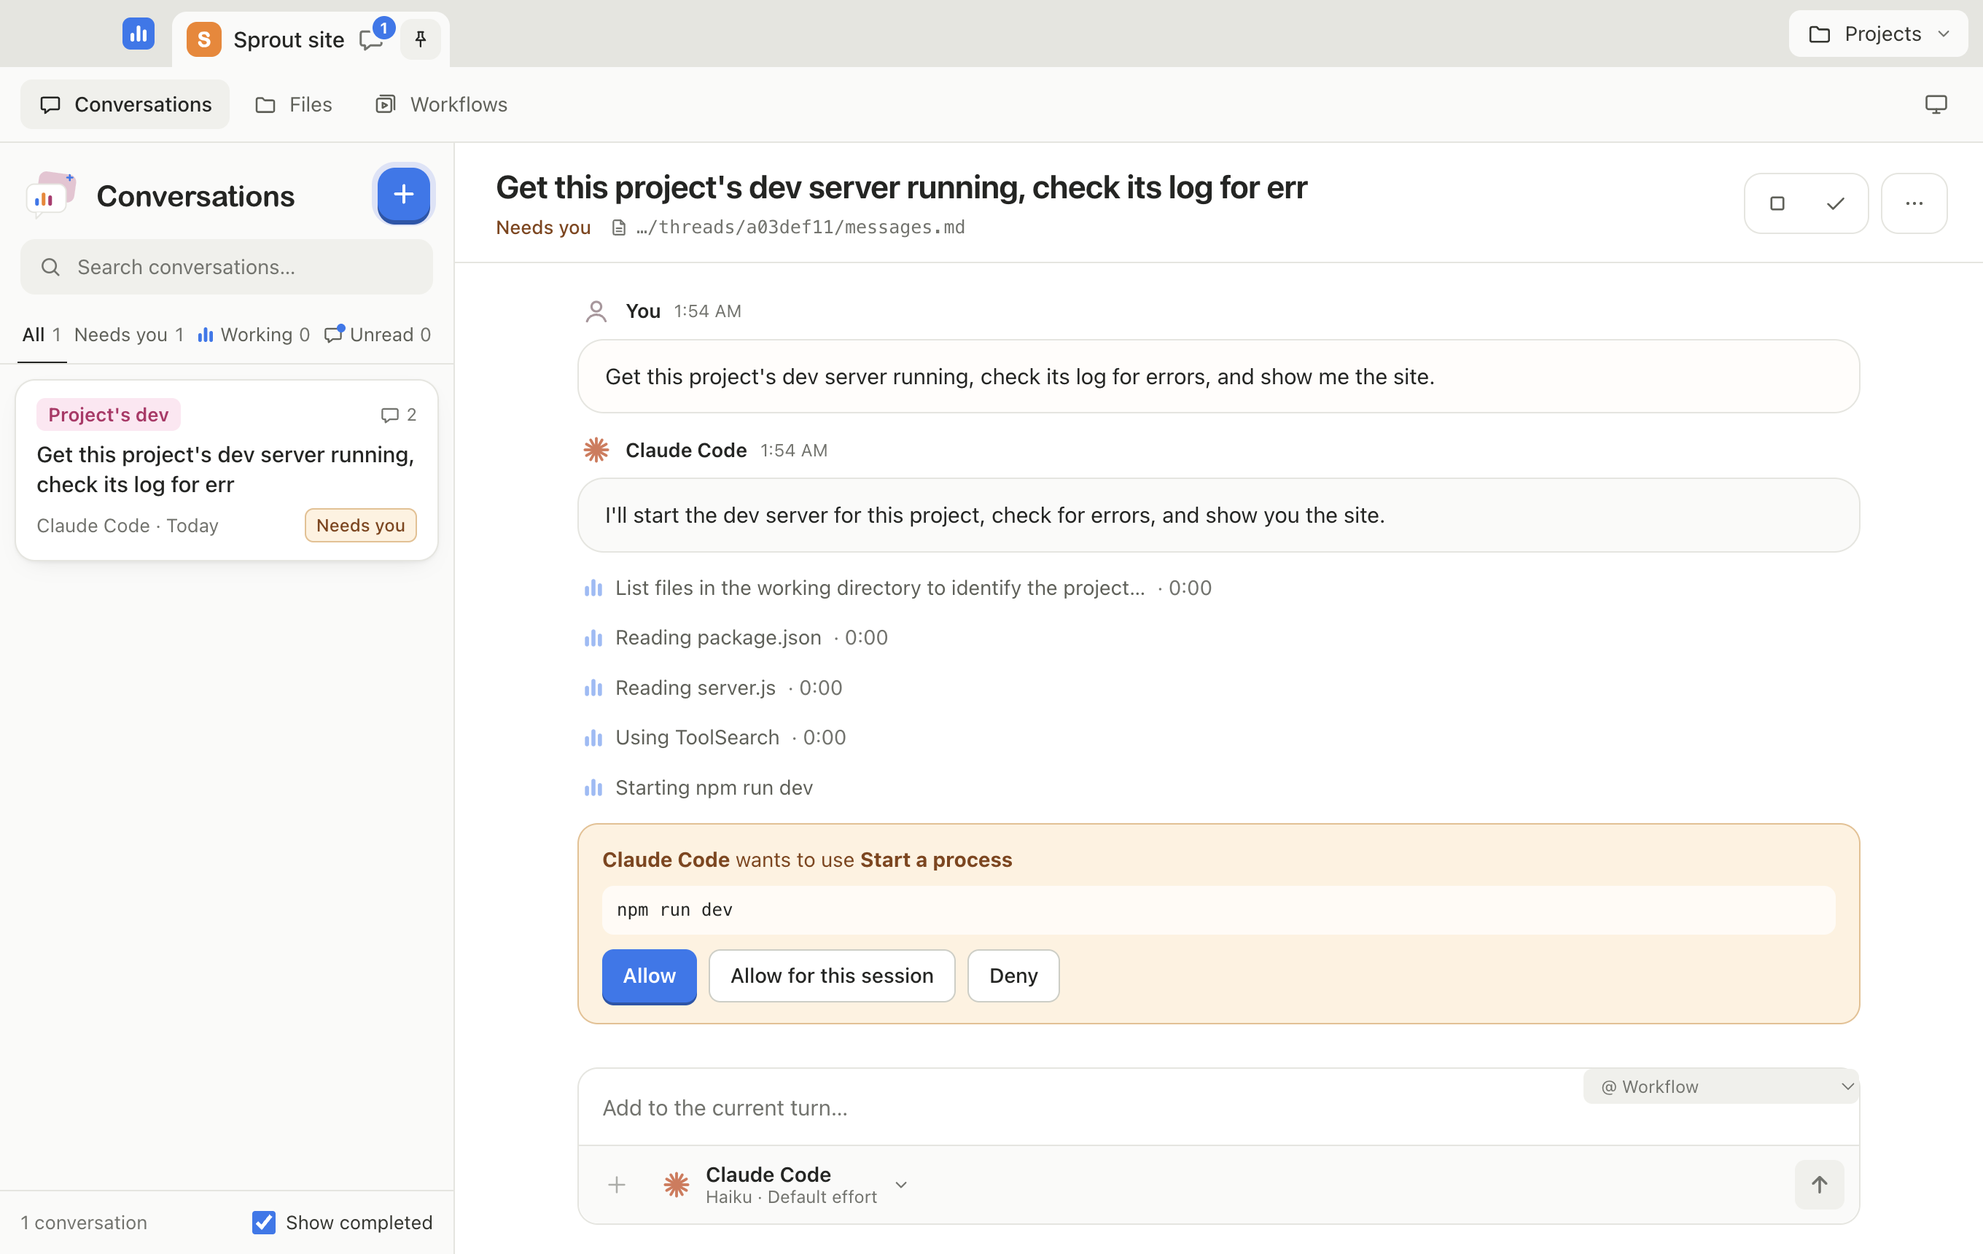
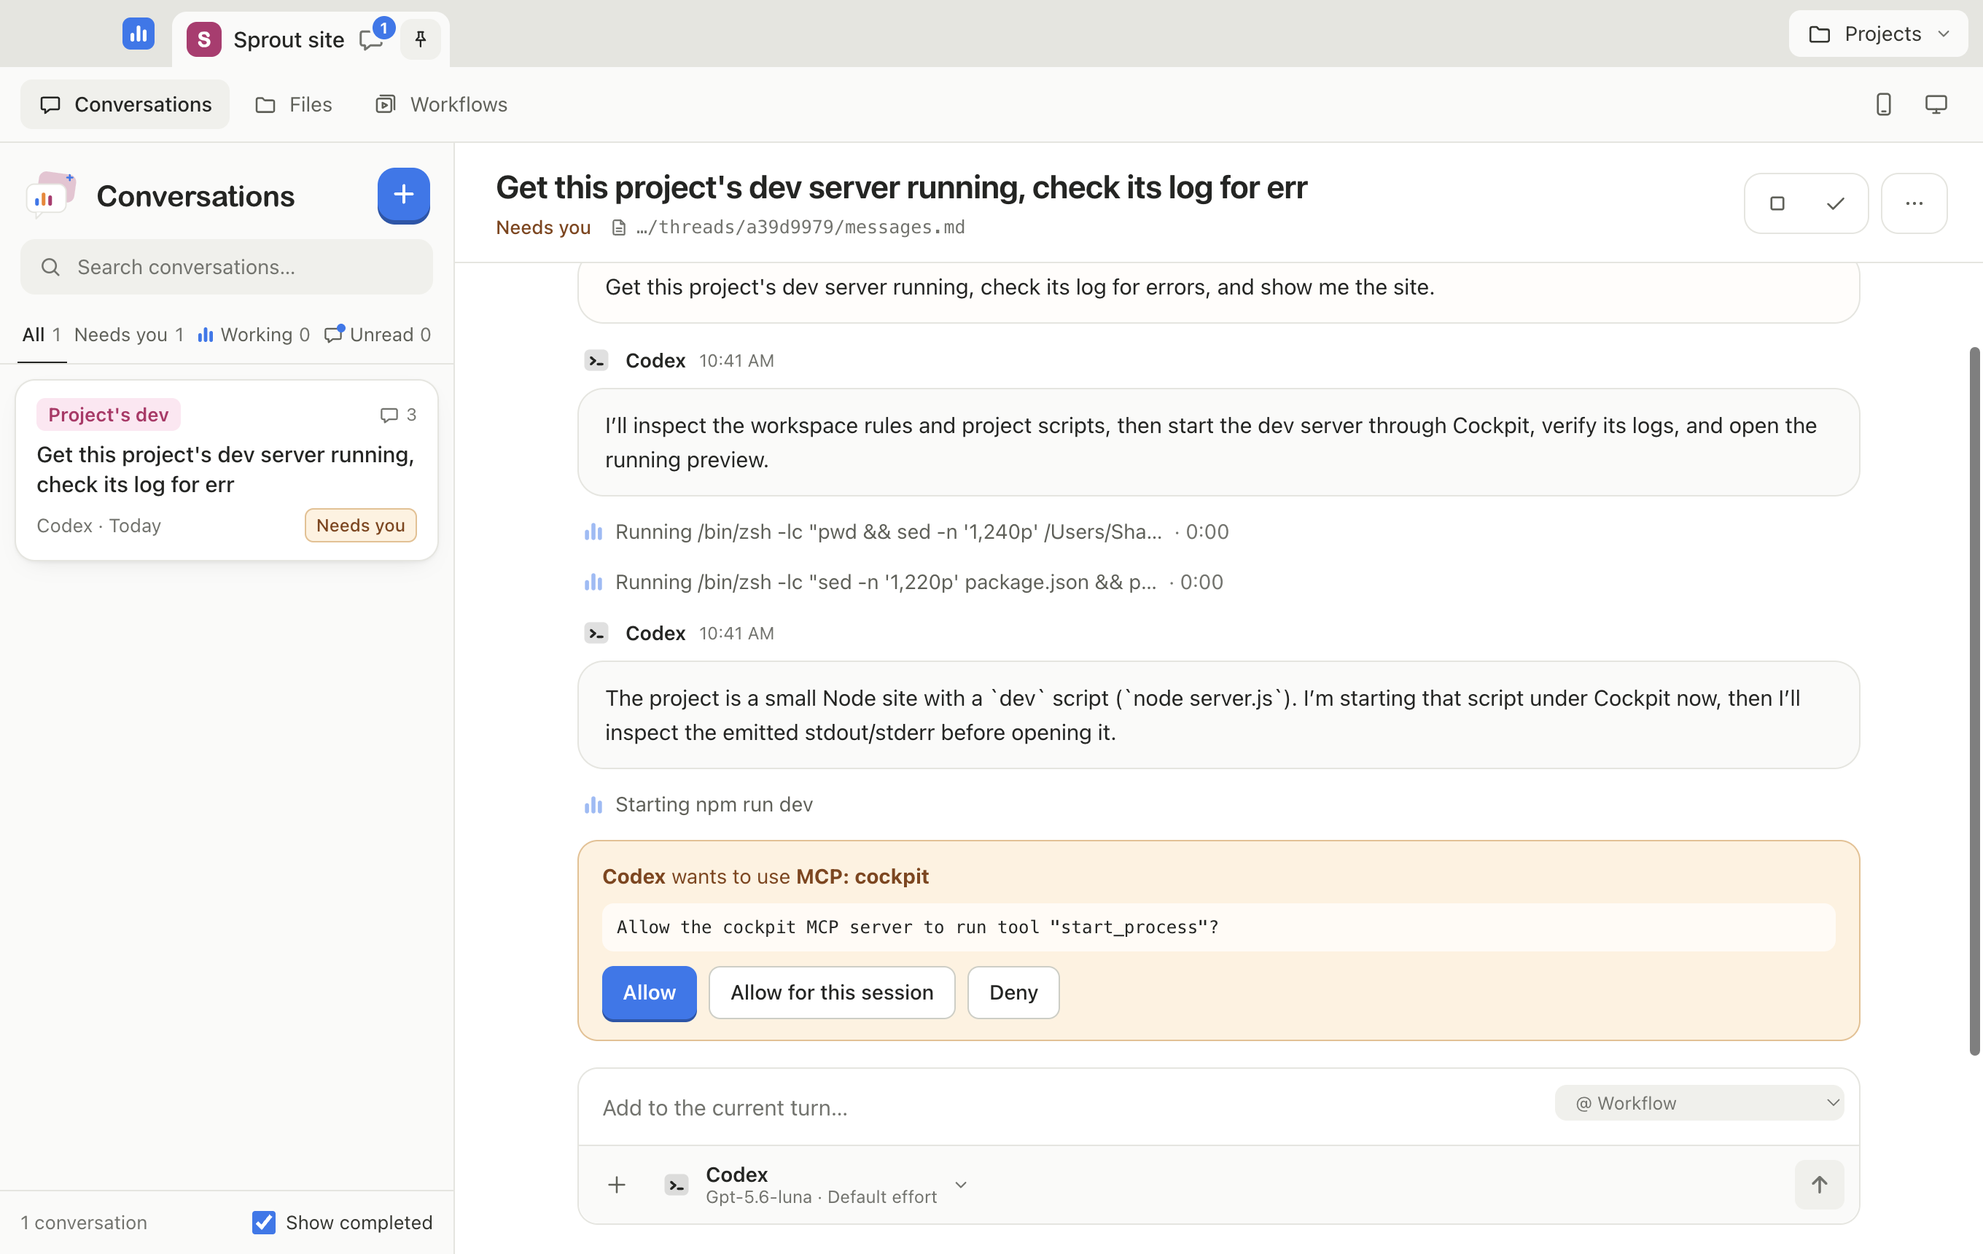
docs: MVP inspection, Codex option for proofs, refreshed screenshots
- proof:files and proof:mcp accept --codex; the process proof recognises
  Codex's MCP approval wording.
- Inspection of phases 1-5 on the packaged app: what works, what is not
  yet covered, and the primary release flow.
- Phone setup covers the macOS network extension and Tailscale's MagicDNS
  and HTTPS certificates.
- Phase 4 and 5 screenshots refreshed with synthetic projects.

diff --git a/scripts/proof-4.ts b/scripts/proof-4.ts
@@ -1,5 +1,5 @@
 // Phase 4 gate, run against the PACKAGED app (npm run package first): `npm run proof:mcp`.
-// A real Haiku thread in a small web project is asked, in plain words that name no tools, to get
+// A real agent thread (Haiku by default, --codex selects Codex) in a small web project is asked, in plain words that name no tools, to get
 // the dev server running and show the site. It has to start the server through the cockpit MCP,
 // read its log, and open the preview itself. The preview is captured (not opened) by swapping
 // shell.openExternal in the main process. Then: the header chip, Stop from the UI, a restart,
@@ -11,6 +11,9 @@ import type { Page } from 'playwright-core'
 import { checker, launchPackagedApp, PROOF_DIR } from './lib/launch-app.ts'
 import { DEV_PROMPT, makeDevProject } from './lib/dev-fixture.ts'
 import { chooseAgent, headStatus, messageBox, openProject, startConversation } from './lib/ui.ts'
+
+const agent = process.argv.includes('--codex') ? 'codex' : 'claude'
+const model = agent === 'codex' ? (process.env.COCKPIT_CODEX_MODEL ?? 'gpt-5.6-luna') : 'haiku'
 
 mkdirSync(PROOF_DIR, { recursive: true })
 const { check, finish } = checker()
@@ -49,7 +52,7 @@ async function approveUntilDone(page: Page, threadId: string, screenshot?: strin
     if (await card.isVisible()) {
       const tool = ((await card.locator('.approval-title strong').nth(1).textContent()) ?? '').trim()
       const detail = ((await card.locator('.approval-detail').textContent()) ?? '').trim()
-      asked.push(tool === 'Start a process' ? tool : `${tool}: ${detail.slice(0, 60)}`)
+      asked.push(tool === 'Start a process' ? tool : `${tool}: ${detail}`)
       if (screenshot && asked.length === 1) await page.screenshot({ path: join(PROOF_DIR, screenshot) })
       await card.getByRole('button', { name: 'Allow', exact: true }).click()
       return undefined
@@ -91,7 +94,7 @@ await app.evaluate(({ shell }) => {
 const openedUrls = (): Promise<string[]> => app.evaluate(() => (globalThis as { __opened?: string[] }).__opened ?? [])
 
 await openProject(page, project, 'Sprout site')
-await chooseAgent(page, { model: 'haiku' })
+await chooseAgent(page, { agent, model })
 await startConversation(page, DEV_PROMPT)
 const threadId = await waitUntil(page, 'the thread', async () =>
   (await getJson<Array<{ meta: { id: string; projectPath: string } }>>(page, '/api/threads')).find((t) => t.meta.projectPath === project)?.meta.id,
@@ -101,9 +104,9 @@ const asked = await approveUntilDone(page, threadId, 'phase-4-approval.png')
 check('turn finished', (await headStatus(page).textContent()) === 'Done', (await headStatus(page).textContent()) ?? '')
 // The agent may also use Bash, which asks in manual mode like any command. What matters here: starting a
 // process asks, and the read-only cockpit tools (list, read log, preview) never do.
-const READ_ONLY = ['List processes', 'Read process output', 'Open a preview']
-check('starting a process asked for approval', asked.includes('Start a process'), asked.join(' | '))
-check('read-only cockpit tools never asked', !asked.some((t) => READ_ONLY.some((r) => t.startsWith(r))))
+const READ_ONLY = ['List processes', 'Read process output', 'Open a preview', 'list_processes', 'read_process_output', 'open_preview']
+check('starting a process asked for approval', asked.some((tool) => tool === 'Start a process' || (tool.startsWith('MCP: cockpit:') && /\bstart_process\b/.test(tool))), asked.join(' | '))
+check('read-only cockpit tools never asked', !asked.some((t) => READ_ONLY.some((r) => t.includes(r))))
 
 const { events } = await getJson<{ events: StoredEvent[] }>(page, `/api/threads/${threadId}/events`)
 const tools = events.flatMap(({ event }) => (event.kind === 'tool_use' && event.name ? [event.name] : []))

diff --git a/scripts/proof-files.ts b/scripts/proof-files.ts
@@ -1,4 +1,4 @@
-// Packaged-app file browser proof with synthetic files, plus one real Haiku turn that
+// Packaged-app file browser proof with synthetic files, plus one real agent turn (--codex selects Codex) that
 // answers from an attached file (a few cents). The stored message, title and
 // transcript must keep the reference, never the file's contents.
 import assert from 'node:assert/strict'
@@ -23,6 +23,9 @@ async function waitUntil<T>(page: Page, what: string, read: () => Promise<T | un
 }
 const getJson = <T>(page: Page, path: string): Promise<T> =>
   page.evaluate(async (p) => ((await (await fetch(p)).json()) as { data: unknown }).data, path) as Promise<T>
+const agent = process.argv.includes('--codex') ? 'codex' : 'claude'
+const model = agent === 'codex' ? (process.env.COCKPIT_CODEX_MODEL ?? 'gpt-5.6-luna') : 'haiku'
+
 const state = mkdtempSync(join(tmpdir(), 'cockpit-files-proof-'))
 const project = join(state, 'sample-project'); mkdirSync(join(project, 'src'), { recursive: true })
 writeFileSync(join(project, 'src', 'hello world.ts'), '// Greeting module\nexport const greeting = "Hello from Cockpit"\n')
@@ -102,7 +105,7 @@ try {
   writeFileSync(join(project, 'notes', 'release.md'), `# Release notes\n\nThe release codename is ${codeword}.\n`)
   await page.setViewportSize({ width: 1280, height: 800 })
   await page.getByRole('button', { name: 'New conversation' }).click()
-  await chooseAgent(page, { model: 'haiku', permissions: 'manual' })
+  await chooseAgent(page, { agent, model, permissions: 'manual' })
   const question = 'What is the release codename in the attached note? Reply with the codename only.'
   await page.getByRole('textbox', { name: 'Message' }).fill(question)
   await page.getByRole('button', { name: 'Attach', exact: true }).click()
@@ -112,17 +115,17 @@ try {
   const typed = `${question}\n@file:notes%2Frelease.md`
   await page.getByRole('button', { name: 'Send', exact: true }).click()
   type Summary = { meta: { id: string; title: string }; status: string; preview: string }
-  const thread = await waitUntil(page, 'the Haiku turn to finish', async () => (await getJson<Summary[]>(page, '/api/threads'))
+  const thread = await waitUntil(page, 'the agent turn to finish', async () => (await getJson<Summary[]>(page, '/api/threads'))
     .find((t) => t.meta.title.startsWith('What is the release codename') && (t.status === 'done' || t.status === 'error')))
   type Detail = { meta: { title: string }; events: { event: { kind: string; text?: string } }[]; transcriptPath: string }
   const detail = await getJson<Detail>(page, `/api/threads/${thread.meta.id}/events`)
   const said = detail.events.filter((e) => e.event.kind === 'assistant_text').map((e) => e.event.text ?? '').join('\n')
   const stored = detail.events.filter((e) => e.event.kind === 'user_text').map((e) => e.event.text)
   const tools = detail.events.filter((e) => e.event.kind === 'tool_use').length
-  assert.equal(thread.status, 'done', `Haiku turn ended as ${thread.status}; if replies are empty, check the Claude usage limit first`)
+  assert.equal(thread.status, 'done', `${agent} turn ended as ${thread.status}; inspect provider errors before retrying`)
   assert.ok(said.includes(codeword), `answer did not use the attachment: ${said.slice(0, 200)}`)
   assert.equal(tools, 0, 'agent used tools, so the answer may not have come from the attachment')
-  console.log(`PASS Haiku answered from the attached file without tools (${said.trim().slice(0, 60)})`)
+  console.log(`PASS ${agent} answered from the attached file without tools (${said.trim().slice(0, 60)})`)
   assert.deepEqual(stored, [typed])
   assert.ok(!detail.meta.title.includes(codeword), 'title holds file contents')
   const transcript = readFileSync(detail.transcriptPath, 'utf8')

diff --git a/scripts/lib/ui.ts b/scripts/lib/ui.ts
@@ -21,9 +21,10 @@ export async function openProject(page: Page, dir: string, name?: string): Promi
 }
 
 /** Sets the new-conversation agent picker (remembered for later conversations). */
-export async function chooseAgent(page: Page, choice: { model?: string; permissions?: string }): Promise<void> {
+export async function chooseAgent(page: Page, choice: { agent?: 'claude' | 'codex'; model?: string; permissions?: string }): Promise<void> {
   await page.getByRole('button', { name: 'Agent settings' }).click()
   const panel = page.getByRole('dialog', { name: 'Agent settings' })
+  if (choice.agent) await panel.getByRole('radio', { name: choice.agent === 'codex' ? 'Codex' : 'Claude Code', exact: true }).click()
   if (choice.model !== undefined) await panel.getByLabel('Model').fill(choice.model)
   if (choice.permissions) await panel.getByLabel('Permissions').selectOption(choice.permissions)
   await page.keyboard.press('Escape')

diff --git a/README.md b/README.md
@@ -6,6 +6,29 @@ Cockpit does no AI inference itself. It drives the official `claude` and `codex`
 
 ![A Cockpit conversation: the agent started the dev server, read its log and opened the preview; the running process shows under the title](docs/proof/phase-4-thread.png)
 
+## Desktop walkthrough
+
+Fresh packaged-app captures from the September 29 inspection, using Codex Luna and synthetic projects. The primary demo flow is: open a project, ask the agent to start its dev server, approve, inspect the preview URL, then stop or restart it.
+
+<details>
+<summary>Approval, attached files, and repeatable workflows</summary>
+
+**Approve the process start in the conversation.**
+
+![Codex waiting for approval to start the project dev server](docs/proof/phase-4-approval.png)
+
+**Attach a project file and get an answer from its contents.**
+
+![Codex Luna answers using an attached release note](docs/proof/phase-5-files-attached.png)
+
+**Save instructions and choose when they run.**
+
+![Workflow editor with Codex Luna, repeat interval and schedule controls](docs/proof/phase-5-workflows.png)
+
+[File browser in dark mode](docs/proof/phase-5-files-dark.png) · [Workflow editor in dark mode](docs/proof/phase-5-workflows-dark.png) · [Process controls](docs/proof/phase-4-processes.png)
+
+</details>
+
 ## Features
 
 - **Parallel conversations, grouped by project.** A tab per pinned project, each showing how many agents are working and how many need you. The list filters by All, Needs you, Working and Unread, with live counts and search.
@@ -63,7 +86,7 @@ If a CLI cannot be found, run `npm run doctor` from the source checkout and rest
 
 ## Use it from your phone
 
-1. Install Tailscale on the Mac and phone, and sign in with the same account. Keep the Mac awake with Cockpit running.
+1. Install Tailscale on the Mac and phone, and sign in with the same account. On the Mac, allow Tailscale's network extension when macOS asks (System Settings, Login Items & Extensions, Network Extensions). In the Tailscale admin console, turn on MagicDNS and HTTPS certificates. Keep the Mac awake with Cockpit running.
 2. In Cockpit on the Mac, open **Phone access** and choose **Turn on phone access**. If Tailscale needs setup, follow the error shown there.
 3. Open the displayed HTTPS address on the phone, or scan its QR code. Choose **Ask my Mac**, compare the six-digit code on both screens, then **Allow** on the Mac.
 4. On Android, Chrome can add Cockpit to the home screen. Open a conversation to reply, answer an approval, or stop it.
@@ -132,6 +155,8 @@ Open **Files**, or use the composer's attachment button, to preview a text file 
 | `npm run proof:phone` | Packaged app and real Tailscale on HTTPS 8443: turn on phone access, pair a phone-sized Chrome, and refusals for a login not on the allowlist, the LAN address, no identity, a foreign Origin, an unpaired and a removed phone, each with a control |
 | `npm run proof:phone -- --live` | Also run one real Codex workflow-save approval, answer it through the phone view, and verify the result arrives live; uses the configured small Codex model |
 
+Use `npm run proof:files -- --codex` and `npm run proof:mcp -- --codex` to run the packaged file/process checks with Codex instead of Claude. Set `COCKPIT_CODEX_MODEL` to choose an available model.
+
 Some proofs and smokes call real agents and consume your provider allowance. Codex proofs default to the model used for development; set `COCKPIT_CODEX_MODEL` to a model available to your account before running them. The product itself uses your CLI's default when Model is blank. Screenshots land in [docs/proof/](docs/proof/).
 
 ## Status and roadmap
@@ -139,8 +164,9 @@ Some proofs and smokes call real agents and consume your provider allowance. Cod
 Built and proven: Claude and Codex adapters, parallel threads, approvals, stop, agent switching with handoff, the desktop app, the full conversation UI, the cockpit MCP with the process runner, workflows and schedules, file attachments, and phone access over Tailscale with pairing and a phone layout.
 
 Next:
-1. **Phone acceptance.** Web Push is implemented; confirm notification delivery and tapping on a physical phone.
-2. **Preview pane.** `open_preview` opens inside the app, and the agent can check its own UI change with a screenshot.
+1. **Primary release flow.** Walk it on a fresh setup: open a project with the folder picker, ask the agent to run its dev server and check the log, allow the start, open the preview in a real browser, then stop or restart the server.
+2. **Phone acceptance.** Web Push is implemented; confirm notification delivery and tapping on a physical phone.
+3. **Preview pane.** `open_preview` opens inside the app, and the agent can check its own UI change with a screenshot.
 
 ## Credits
 

diff --git a/docs/PLAN.md b/docs/PLAN.md
@@ -7,16 +7,22 @@
 - **Verified for this checkpoint:** 140 tests, typecheck, both builds, packaging, 32 phone checks through real Tailscale, and packaged desktop reliability. Earlier Claude-dependent proofs were not repeated during its usage cap; see BUILD-NOTES for their last failures.
 - **Installed:** the packaged app was signature-checked and launched. Phone access and the existing pairing resumed; the previous app bundle was preserved privately.
 - **Portable setup:** each person uses their own CLI accounts, project folder and Tailscale account; `npm run doctor` checks prerequisites. Model selection defaults to their CLI configuration.
-- **Next:** complete physical-phone notification acceptance, then Phase 7 preview pane. Additional agent adapters remain Phase 8.
+- **Next:** walk the primary release flow on a fresh setup (below), complete physical-phone notification acceptance, then Phase 7 preview pane. Additional agent adapters remain Phase 8.
 
 
-## Next session: inspect the current MVP
+## MVP inspection (2026-09-29)
 
-Run the app and its existing checks. Walk through the features already built in the first five phases, note failures and missing pieces, and choose one primary user flow for the first release.
+Fresh walkthrough used the packaged app and Codex `gpt-5.6-luna`. Claude's first live check hit its provider cap; no further Claude calls were made.
 
-**Done when:** a short checklist records what works, what fails, and the single release-critical user flow.
+- **Works:** 140 tests and builds; Codex conversation resume; desktop selection/routing/completion; files and attachment answers; manual/scheduled workflows; 16 packaged process checks covering approval, start, logs, preview routing, Stop, restart and quit cleanup.
+- **Blocked:** fresh Claude↔Codex handoff acceptance while Claude is capped.
+- **Still unverified in this inspection:** native folder picker, actual external-browser opening (the proof captures the request and fetches the URL), simultaneous live agents, Deny/session-wide approvals, active-agent Stop, second-Mac setup and physical-phone push.
+- **Polish observed:** technical Codex MCP approval wording and conversation titles truncated mid-word.
+- **Screenshots:** refreshed Phase 4 and Phase 5 captures in `docs/proof/`, using synthetic projects. Run logs and the full checklist are kept outside the repo.
 
-This inspection has not been performed in the setup/documentation checkpoint. Do not treat earlier proof results as the checklist or preselect the release flow without the walkthrough.
+**Primary release flow:** open a project → ask Codex to run its dev server and inspect the log → allow the action → receive a working local preview URL → stop or restart the server from the conversation.
+
+**Next acceptance:** walk that flow from the native folder picker through an actual browser opening on a fresh setup. Files and workflows support this flow. Keep Claude handoff and physical-phone push visibly pending; preview-pane development remains Phase 7.
 
 ## Scope for the first release
 

diff --git a/docs/BUILD-NOTES.md b/docs/BUILD-NOTES.md
@@ -231,3 +231,19 @@ Review found that Web Push lacked a network timeout, allowing a stalled endpoint
 Scope clarification: this is an early MVP. The portability pass makes the existing Mac checkpoint easier for another builder to try; it does not expand the milestone into a finished cross-platform product. Remaining physical-phone checks are tracked openly and do not block MVP feedback.
 
 The portability package passed 27 non-agent phone checks through Tailscale. Its application archive contains no per-user state files or CLI credential directories. Final focused review found no further blocking code findings after the unsubscribe and timeout fixes. The next session is reserved for a broader phases 1–5 walkthrough and selection of one release-critical flow; that inspection has not been marked complete.
+
+
+## MVP inspection (2026-09-29)
+
+**What.** A walkthrough of phases 1 to 5 on the packaged app, to record what works, what fails and the one flow the first release depends on. Claude hit its usage limit on the first live check, so every live check after that ran on Codex.
+
+**Proof changes.** `proof:files` and `proof:mcp` take `--codex` (model from `COCKPIT_CODEX_MODEL`), through an `agent` option on the shared `chooseAgent` helper. Codex asks for cockpit tools as MCP approvals ("MCP: cockpit ... start_process"), so the process proof recognises that wording as well as Cockpit's own label, and keeps the full approval detail in its log. Claude with Haiku stays the default.
+
+**Results.** 140 tests and builds; Codex conversation resume; desktop selection, routing, completion and reopening; file preview and an attachment-only answer; manual and scheduled workflows; 16 packaged process checks (approval, start, log, preview URL, served page, Stop, restart, nothing left running after quit). Fresh screenshots of Phase 4 and 5 use synthetic projects.
+
+**Not covered.** Claude to Codex handoff (Claude capped), the native folder picker, a real external browser opening the preview (the proof captures the request and fetches the URL), several live agents at once, Deny and session-wide approvals, stopping an active agent turn, setup on a second Mac, and push delivery to a physical phone.
+
+**Polish noted.** Codex approval cards read technically ("MCP: cockpit"), and long titles are cut mid-word.
+
+**Primary release flow.** Open a project, ask the agent to run its dev server and check the log, allow the start, get a working local preview URL, then stop or restart the server from the conversation. Files and workflows support it.
+
